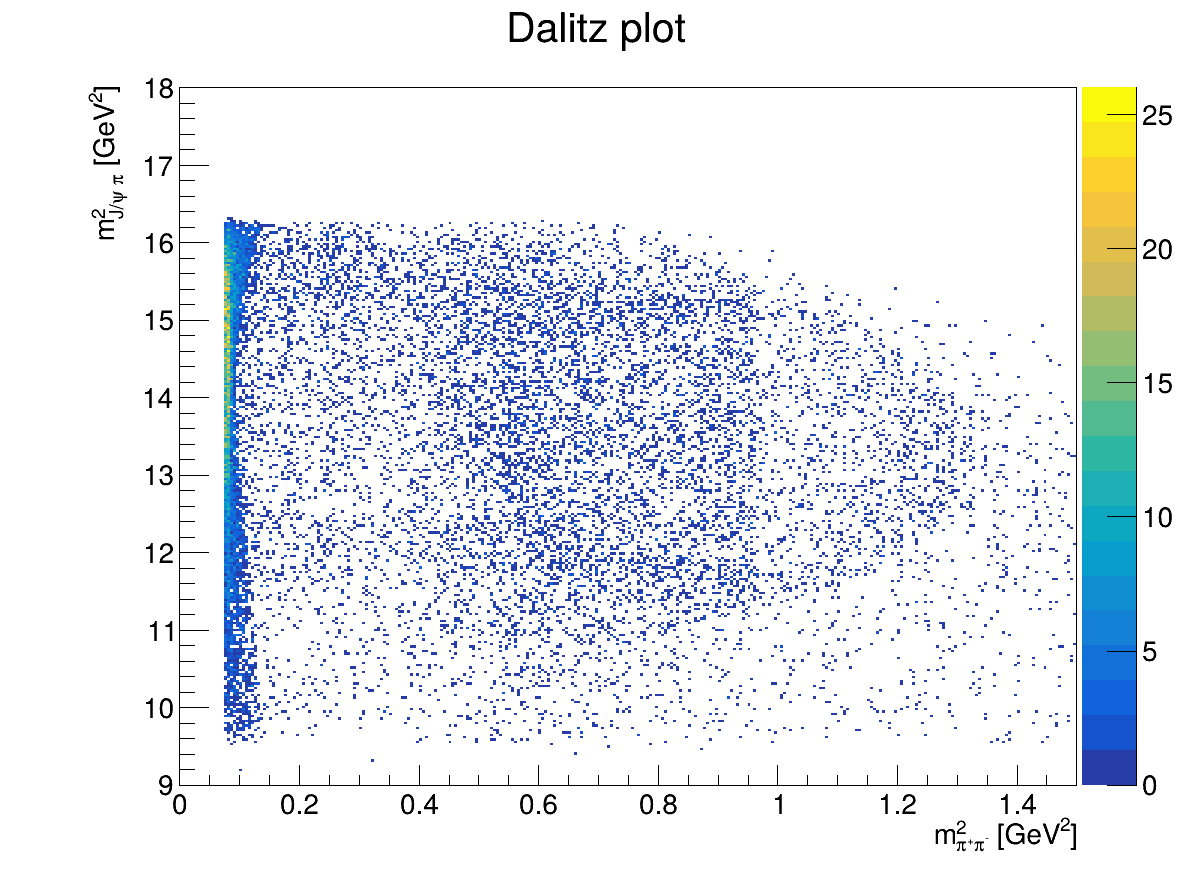
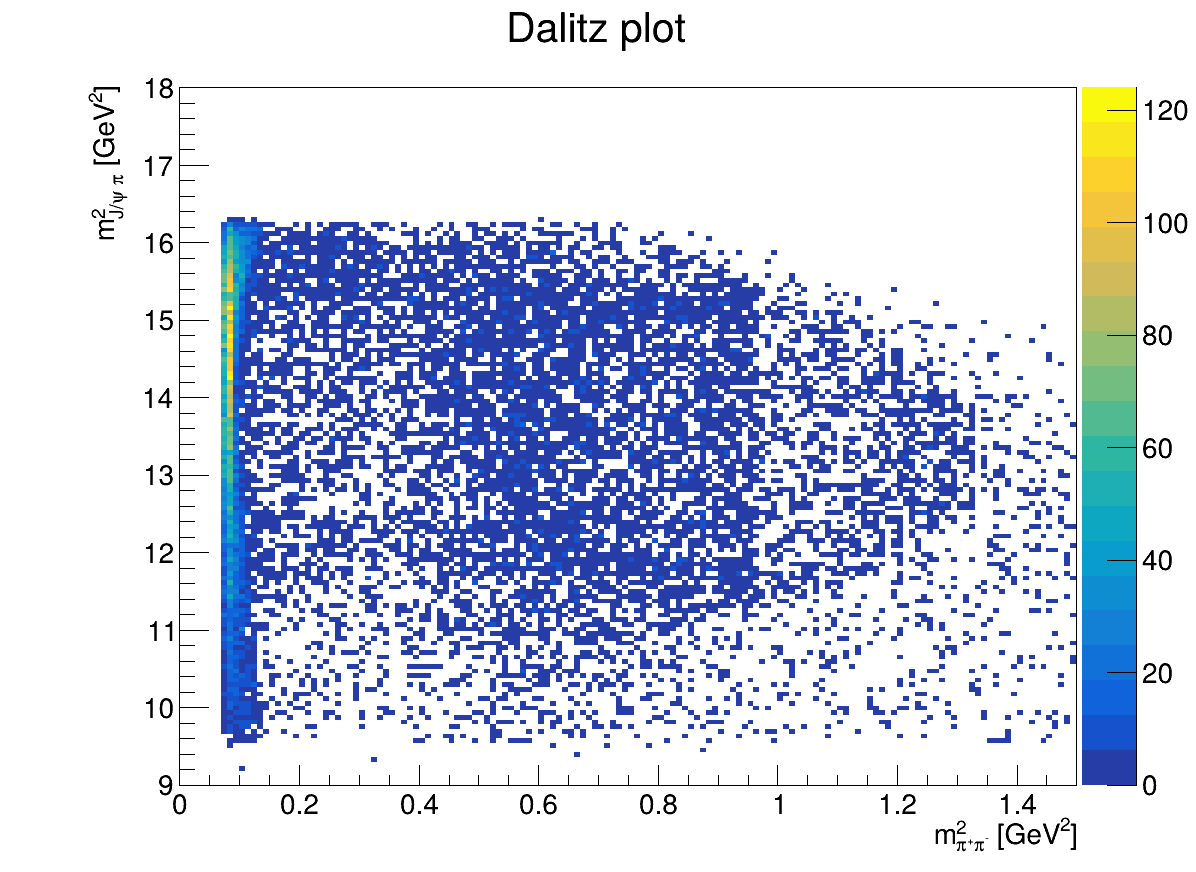
6.1

diff --git a/part2_KinFit/ZcAnalysis.C b/part2_KinFit/ZcAnalysis.C
@@ -87,8 +87,23 @@ TH1D* h1_mJpsi_recoil = new TH1D(
 TH2D* h2_dalitz = new TH2D(
 "h2_dalitz",
 "Dalitz plot; m^{2}_{#pi^{+}#pi^{-}} [GeV^{2}]; m^{2}_{J/#psi #pi} [GeV^{2}]",
-300,0,1.5,
-300,9,18
+150,0,1.5,
+150,9,18
+);
+
+// ===== NEW HISTOGRAMS =====
+TH2D* h2_dalitz_sig = new TH2D(
+"h2_dalitz_sig",
+"Dalitz (signal); m^{2}_{#pi^{+}#pi^{-}} [GeV^{2}]; m^{2}_{J/#psi #pi} [GeV^{2}]",
+150,0,1.5,
+150,9,18
+);
+
+TH2D* h2_dalitz_sb = new TH2D(
+"h2_dalitz_sb",
+"Dalitz (sideband); m^{2}_{#pi^{+}#pi^{-}} [GeV^{2}]; m^{2}_{J/#psi #pi} [GeV^{2}]",
+150,0,1.5,
+150,9,18
 );
 // problem 4.1
 TH1D* h1_mJpsi_pipi = new TH1D(
@@ -480,15 +495,55 @@ for (int i = 0; i < intNumberGoodPhotons; i++)
     h1_Egamma->Fill(Egamma);
 }
 // Dalitz plot using 4C fit four-vectors
+// problem 6.1
+// ===== DALITZ WITH SIDEBANDS =====
 
 double m2_pipi = pions.M2();
-
 double m2_jpsipi1 = (Jpsi + pi_plus).M2();
 double m2_jpsipi2 = (Jpsi + pi_minus).M2();
 
+double mll = Jpsi.M();
+
+// define regions
+bool isSignal  = (mll > 3.08 && mll < 3.12);
+bool isLeftSB  = (mll > 3.00 && mll < 3.06);
+bool isRightSB = (mll > 3.14 && mll < 3.20);
+
+// ALWAYS fill original
 h2_dalitz->Fill(m2_pipi, m2_jpsipi1);
 h2_dalitz->Fill(m2_pipi, m2_jpsipi2);
- 
+
+// signal only
+if (isSignal)
+{
+    h2_dalitz_sig->Fill(m2_pipi, m2_jpsipi1);
+    h2_dalitz_sig->Fill(m2_pipi, m2_jpsipi2);
+}
+
+// sidebands
+if (isLeftSB || isRightSB)
+{
+    h2_dalitz_sb->Fill(m2_pipi, m2_jpsipi1);
+    h2_dalitz_sb->Fill(m2_pipi, m2_jpsipi2);
+}
+
+// ALWAYS fill original Dalitz (for comparison)
+h2_dalitz->Fill(m2_pipi, m2_jpsipi1);
+h2_dalitz->Fill(m2_pipi, m2_jpsipi2);
+
+// signal-only
+if (isSignal)
+{
+    h2_dalitz_sig->Fill(m2_pipi, m2_jpsipi1);
+    h2_dalitz_sig->Fill(m2_pipi, m2_jpsipi2);
+}
+
+// sidebands
+if (isLeftSB || isRightSB)
+{
+    h2_dalitz_sb->Fill(m2_pipi, m2_jpsipi1);
+    h2_dalitz_sb->Fill(m2_pipi, m2_jpsipi2);
+}
     // // problem 3.0
    if (electronEvent)
 {
@@ -500,6 +555,18 @@ if (muonEvent)
     h1_mJpsi_mu->Fill(Jpsi.M());
 }// end of muon loop
 } // end of event loop
+
+// problem 6.1
+// ===== SIDEBAND SUBTRACTION =====
+double scale = 0.04 / 0.12;
+
+TH2D* h2_dalitz_final = (TH2D*)h2_dalitz_sig->Clone("h2_dalitz_final");
+
+// scale sideband first
+h2_dalitz_sb->Scale(scale);
+
+// subtract
+h2_dalitz_final->Add(h2_dalitz_sb, -1.0);
 // problem 5.1
 TH1D* h_mJpsi_combined = (TH1D*)h_mJpsi_e_afterChi2->Clone("h_mJpsi_combined");
 h_mJpsi_combined->Add(h_mJpsi_mu_afterChi2);
@@ -523,7 +590,7 @@ std::cout << "After Chi2: " << N_chi2_e
 std::cout << "\n=== MUONS ===" << std::endl;
 std::cout << "Initial: " << Ni_mu << std::endl;
 std::cout << "After Bhabha: " << N_bhabha_mu 
-          << "  eff = " << (double)N_bhabha_mu/Ni_mu << std::endl;
+          << "  eff = " << (double)N_bhabha_mu/Ni_mu << std::endl;   // check later
 std::cout << "After Conversion: " << N_conv_mu
           << "  eff = " << (double)N_bhabha_mu/Ni_mu << std::endl;
 std::cout << "After Chi2: " << N_chi2_mu 
@@ -755,6 +822,27 @@ h1_mJpsi_recoil->Fit(ffit_voigt,"R");
     dalitz_lower->Draw("same");
 
     canvas->SaveAs(savePath + "Dalitz_plot.png");
+}
+// problem 6.1
+// ===== DEBUG: SIGNAL ONLY =====
+{
+    TCanvas* c1 = new TCanvas("c_sig","c_sig",1200,900);
+    h2_dalitz_sig->Draw("COLZ");
+    c1->SaveAs(savePath + "Dalitz_signal_only.png");
+}
+
+// ===== DEBUG: SIDEBAND ONLY =====
+{
+    TCanvas* c2 = new TCanvas("c_sb","c_sb",1200,900);
+    h2_dalitz_sb->Draw("COLZ");
+    c2->SaveAs(savePath + "Dalitz_sideband_only.png");
+}
+
+// ===== FINAL SUBTRACTED =====
+{
+    TCanvas* c3 = new TCanvas("c_final","c_final",1200,900);
+    h2_dalitz_final->Draw("COLZ");
+    c3->SaveAs(savePath + "Dalitz_sideband_subtracted.png");
 }
 // problem 4.1
 {
